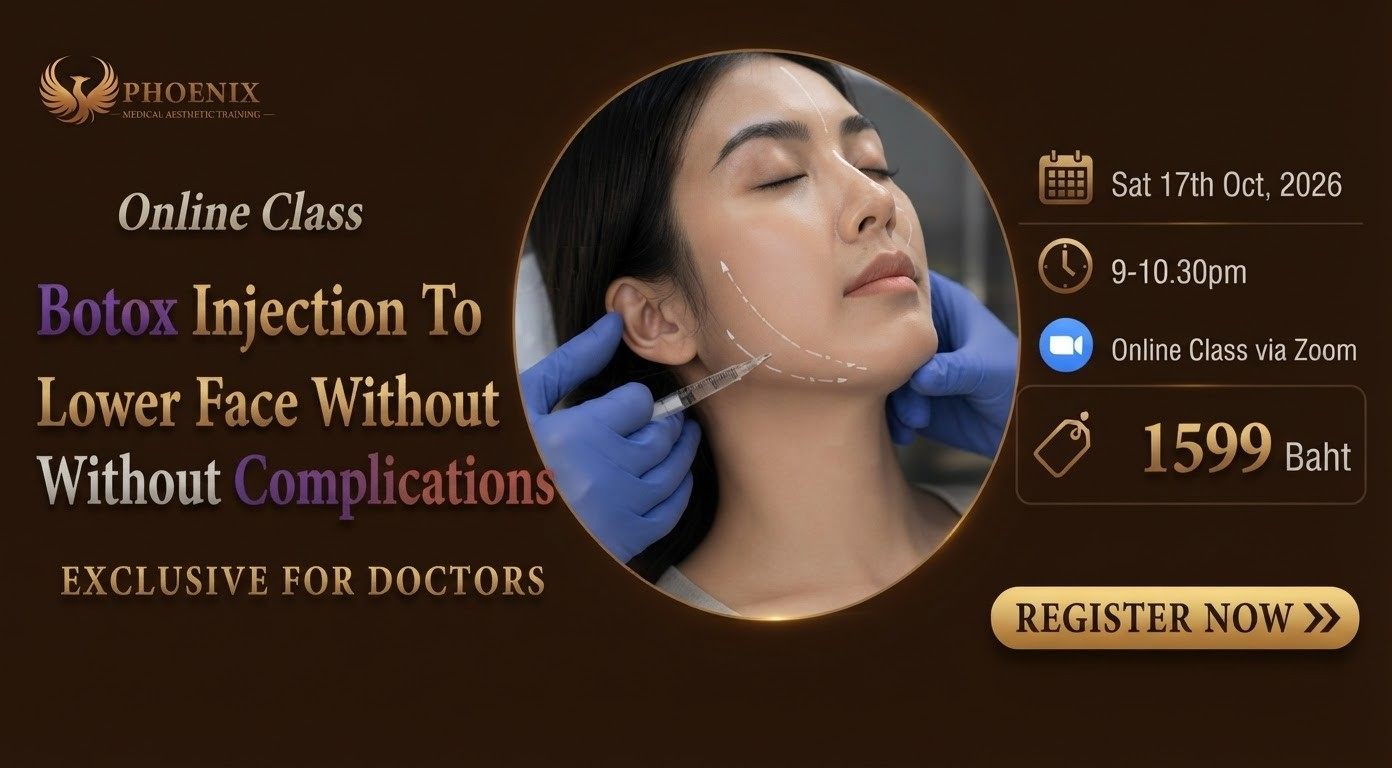
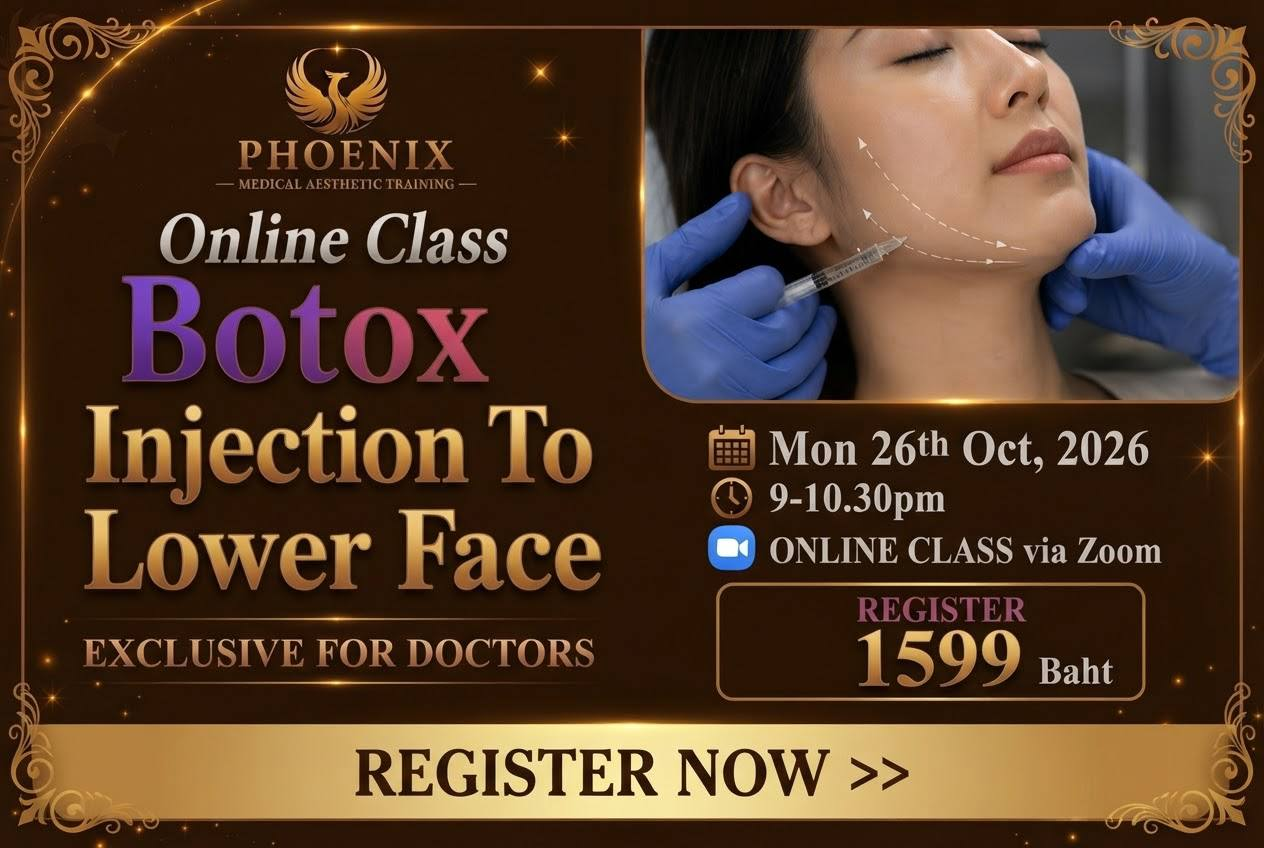
Update card for 26 October class

diff --git a/index.html b/index.html
@@ -4,20 +4,20 @@
   <meta charset="utf-8">
   <meta name="viewport" content="width=device-width, initial-scale=1">
   <title>Botox Lower Face | Phoenix</title>
-  <meta name="description" content="Botox Lower Face — เรียนรู้เทคนิคการออกแบบและฉีดโบท็อกซ์ช่วงล่างของใบหน้า • เรียนออนไลน์ผ่าน Zoom • 17 ตุลาคม 2569 • 21.00-22.30 น.">
+  <meta name="description" content="Botox Lower Face — เรียนรู้เทคนิคการออกแบบและฉีดโบท็อกซ์ช่วงล่างของใบหน้า • เรียนออนไลน์ผ่าน Zoom • 26 ตุลาคม 2569 • 21.00-22.30 น.">
   <meta property="og:type" content="website">
   <meta property="og:url" content="https://jame2470-ux.github.io/botox-lowerface/">
   <meta property="og:title" content="Botox Lower Face | Phoenix">
-  <meta property="og:description" content="เรียนรู้เทคนิคการออกแบบและฉีดโบท็อกซ์ช่วงล่างของใบหน้า • เรียนออนไลน์ผ่าน Zoom • 17 ตุลาคม 2569 • 21.00-22.30 น.">
-  <meta property="og:image" content="https://jame2470-ux.github.io/botox-lowerface/preview-card.jpg?v=2">
-  <meta property="og:image:width" content="1392">
-  <meta property="og:image:height" content="768">
+  <meta property="og:description" content="เรียนรู้เทคนิคการออกแบบและฉีดโบท็อกซ์ช่วงล่างของใบหน้า • เรียนออนไลน์ผ่าน Zoom • 26 ตุลาคม 2569 • 21.00-22.30 น.">
+  <meta property="og:image" content="https://jame2470-ux.github.io/botox-lowerface/preview-card.jpg?v=3">
+  <meta property="og:image:width" content="1264">
+  <meta property="og:image:height" content="848">
   <meta name="twitter:card" content="summary_large_image">
   <meta name="twitter:title" content="Botox Lower Face | Phoenix">
-  <meta name="twitter:description" content="เรียนรู้เทคนิคการออกแบบและฉีดโบท็อกซ์ช่วงล่างของใบหน้า • เรียนออนไลน์ผ่าน Zoom • 17 ตุลาคม 2569 • 21.00-22.30 น.">
-  <meta name="twitter:image" content="https://jame2470-ux.github.io/botox-lowerface/preview-card.jpg?v=2">
+  <meta name="twitter:description" content="เรียนรู้เทคนิคการออกแบบและฉีดโบท็อกซ์ช่วงล่างของใบหน้า • เรียนออนไลน์ผ่าน Zoom • 26 ตุลาคม 2569 • 21.00-22.30 น.">
+  <meta name="twitter:image" content="https://jame2470-ux.github.io/botox-lowerface/preview-card.jpg?v=3">
   <style>body{margin:0;min-height:100vh;display:grid;place-items:center;background:#1d1513}main{width:min(92vw,760px);text-align:center;font-family:Arial,sans-serif;color:#fff}img{width:100%;height:auto;border-radius:10px}a{display:inline-block;margin:18px;color:#ffe0ce;font-weight:bold}</style>
   <script>setTimeout(()=>location.replace('https://sites.google.com/view/botox-lower-face-17oct/%E0%B8%AB%E0%B8%99%E0%B8%B2%E0%B9%81%E0%B8%A3%E0%B8%81'),2000)</script>
 </head>
-<body><main><img src="preview-card.jpg" alt="Botox Lower Face 17 ตุลาคม 2569"><a href="https://sites.google.com/view/botox-lower-face-17oct/%E0%B8%AB%E0%B8%99%E0%B8%B2%E0%B9%81%E0%B8%A3%E0%B8%81">เข้าสู่เว็บไซต์</a></main></body>
+<body><main><img src="preview-card.jpg" alt="Botox Lower Face 26 ตุลาคม 2569"><a href="https://sites.google.com/view/botox-lower-face-17oct/%E0%B8%AB%E0%B8%99%E0%B8%B2%E0%B9%81%E0%B8%A3%E0%B8%81">เข้าสู่เว็บไซต์</a></main></body>
 </html>
